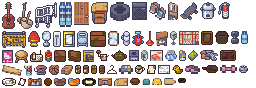
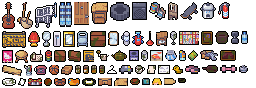
Lake Cleanup: the rubbish outlined in the angler's black

diff --git a/Lake Cleanup/tools/build_lake_objects.py b/Lake Cleanup/tools/build_lake_objects.py
@@ -98,6 +98,31 @@ SLUGS = {
 YARDS = {"wood": "Wood", "metal": "Metal", "plastic": "Plastic", "rubber": "Rubber"}
 
 
+## The angler's outline is pure black; the rubbish was painted with tinted ones (slate, maroon)
+## that read softer beside him (2026-09-24, Richard: "the same outline as the player has").
+## Every silhouette pixel darker than OUTLINE_UNDER goes black; a lit edge pixel keeps its
+## colour, since that is the painted highlight and not the line.
+OUTLINE_INK = (0, 0, 0, 255)
+OUTLINE_UNDER = 110
+
+
+def ink_outline(im):
+    px = im.load()
+    w, h = im.size
+    edge = []
+    for y in range(h):
+        for x in range(w):
+            c = px[x, y]
+            if c[3] == 0 or 0.299 * c[0] + 0.587 * c[1] + 0.114 * c[2] >= OUTLINE_UNDER:
+                continue
+            if any(not (0 <= x + dx < w and 0 <= y + dy < h) or px[x + dx, y + dy][3] == 0
+                   for dx, dy in ((1, 0), (-1, 0), (0, 1), (0, -1))):
+                edge.append((x, y))
+    for spot in edge:
+        px[spot] = OUTLINE_INK
+    return im
+
+
 def main():
     psd = PSDImage.open(PSD)
     layers = {}
@@ -121,6 +146,7 @@ def main():
             im = despeck(layer.composite().convert("RGBA"))
             if im is None:
                 sys.exit("layer %r (%s) is empty" % (name, slug))
+            im = ink_outline(im)
             sprites[slug] = im
             xs[slug] = layer.bbox[0]
             titles.setdefault(slug, slug.replace("_", " ").title())

diff --git a/Lake Cleanup/CLAUDE.md b/Lake Cleanup/CLAUDE.md
@@ -2317,6 +2317,11 @@ the whole job.
   silhouette, so the jetties' outline went near-black too). **The island crate draws at
   2.0** (`Yard.ART_SCALE`, was 2.5), so its outline is one art pixel like everyone else's;
   the crate is 20% smaller and its footprint follows.
+- **The rubbish wears the angler's black outline** (same day): `build_lake_objects.py`
+  `ink_outline` turns every silhouette pixel darker than `OUTLINE_UNDER` (110 luma) pure black;
+  lit edge pixels keep their colour, so a pale piece (the bottle, the sheet) has a broken line
+  where it was painted with a highlight. The rebuild rewrote `pieces.json` in another order
+  with identical content; the committed file was kept.
 - Both need the art: a hem is measured off an `Image`, so the blocked-in fallbacks (no sheet)
   grow nothing. **Shed and box only**, this pass. The four dropoff piers have the same hard
   bottom edge on the bank and are the obvious next ones.
